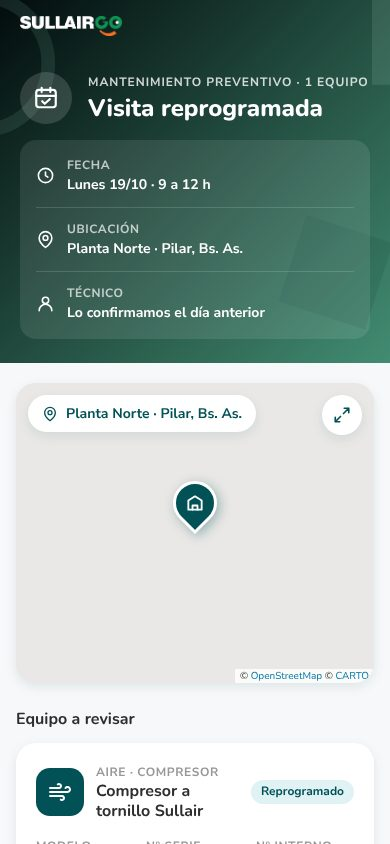
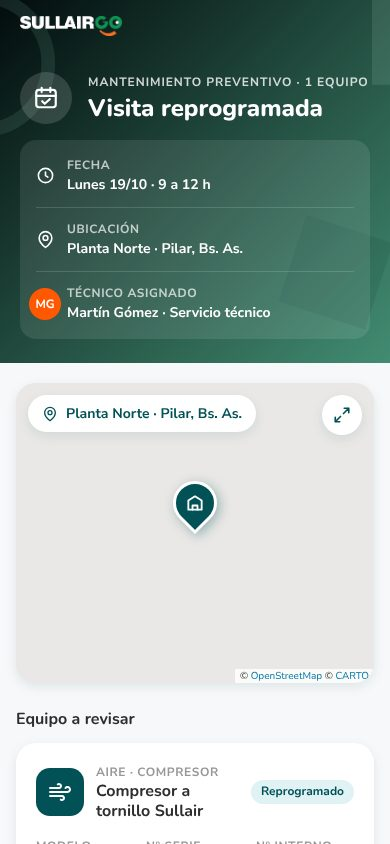
Reprogramación con varios días posibles y técnico asignado visible
- Los días pasan a ser casillas: el cliente marca uno o varios (al menos
  uno) y una o ambas franjas. Con un día se confirma en el momento; con
  varios queda "a confirmar" y la demo simula la confirmación de Sullair.
- En R1–R5 se muestra el técnico asignado (Martín Gómez) en lugar de
  "Lo confirmamos el día anterior".
- Fechas y franjas con espacios no separables para que no se corten.

Claude-Session: https://claude.ai/code/session_01QMfbviee6jNsxgx1mgfmid

Changed region(s): [[0.1846, 0.3389, 0.5538, 0.4005], [0.0615, 0.3389, 0.1846, 0.4005], [0.5846, 0.3389, 0.6769, 0.4005]]

diff --git a/public/app/app.js b/public/app/app.js
@@ -57,12 +57,13 @@
 
   // ── Fechas (escenarios de agenda) ─────────────────────────
   var MAX = 2;
-  var SLOTS = { manana: "9 a 12 h", tarde: "14 a 17 h" };
+  // Espacios no separables: las franjas y fechas no se cortan en dos renglones.
+  var SLOTS = { manana: "9\u00a0a\u00a012\u00a0h", tarde: "14\u00a0a\u00a017\u00a0h" };
   // Franjas elegidas por el cliente: una o ambas (al menos una).
   function slotsLabel(slots) {
-    return slots.length > 1 ? "9 a 17 h" : SLOTS[slots[0]];
+    return slots.length > 1 ? "9\u00a0a\u00a017\u00a0h" : SLOTS[slots[0]];
   }
-  var DATE_OPTIONS = 4;
+  var DATE_OPTIONS = 6;
   var weekday = new Intl.DateTimeFormat("es-AR", { weekday: "long" });
   var dayMonth = new Intl.DateTimeFormat("es-AR", { day: "numeric", month: "long" });
   function parse(iso) {
@@ -86,6 +87,15 @@
   }
   function day(d) {
     return weekday.format(d) + " " + pad(d.getDate()) + "/" + pad(d.getMonth() + 1);
+  }
+  var weekdayShort = new Intl.DateTimeFormat("es-AR", { weekday: "short" });
+  // "vie 16/10, lun 19/10 o mar 20/10"
+  function daysList(isoDates) {
+    var items = isoDates.map(function (iso) {
+      var d = parse(iso);
+      return weekdayShort.format(d).replace(".", "") + "\u00a0" + pad(d.getDate()) + "/" + pad(d.getMonth() + 1);
+    });
+    return items.length > 1 ? items.slice(0, -1).join(", ") + " o " + items[items.length - 1] : items[0];
   }
 
   // ── Estado de agenda (R1–R5) ──────────────────────────────
@@ -113,6 +123,7 @@
     "en-curso": ["warning", "En curso", true],
     terminado: ["success", "Terminado", true],
     programado: ["info", "Programado", false],
+    "a-confirmar": ["warning", "A confirmar", true],
     reprogramado: ["info", "Reprogramado", false],
     definitivo: ["info", "Fecha definitiva", false],
     cancelado: ["neutral", "Cancelado", false],
@@ -172,7 +183,8 @@
       "dia-siguiente": ["calendarLock", "Fecha definitiva"],
       "cancelada-sullair": ["calendarX", "Visita cancelada"],
     };
-    var t = titles[state.status];
+    var t = state.pending ? ["calendar", "Nueva fecha a confirmar"] : titles[state.status];
+    var when = state.pending ? "A confirmar: " + daysList(state.pending) : capitalize(day(date));
     return {
       icon: t[0],
       eyebrow: "Mantenimiento preventivo · 1 equipo",
@@ -182,12 +194,12 @@
         {
           icon: "clock",
           label: "Fecha",
-          value: capitalize(day(date)) + " · " + slotsLabel(state.slots),
+          value: when + " · " + slotsLabel(state.slots),
           cls: state.status === "cancelada-sullair" ? "is-cancelled" : "",
           bind: "visit-date",
         },
         { icon: "pin", label: "Ubicación", value: site },
-        { icon: "user", label: "Técnico", value: "Lo confirmamos el día anterior" },
+        { avatar: avatar, label: "Técnico asignado", value: tech },
       ],
     };
   }
@@ -261,6 +273,7 @@
   }
 
   function agendaBadge() {
+    if (state.pending) return "a-confirmar";
     return { programada: "programado", reprogramada: "reprogramado", "dia-siguiente": "definitivo", "cancelada-sullair": "cancelado" }[state.status];
   }
 
@@ -271,6 +284,10 @@
         out += '<div class="notice notice--success">' + icon("done") + "<div><strong>Todo listo</strong><span>Se cerraron las intervenciones de los " + sc.equipos.length + " equipos.</span></div></div>";
       return out;
     }
+    if (state.pending)
+      out +=
+        '<div class="notice notice--info" role="status">' + icon("clock") +
+        "<div><strong>Recibimos tu disponibilidad</strong><span>Elegimos el día y la franja entre las opciones que marcaste y te confirmamos por WhatsApp.</span></div></div>";
     if (flash) out += '<div class="notice notice--success" role="status">' + icon("done") + "<div><strong>" + esc(flash.title) + "</strong><span>" + esc(flash.text) + "</span></div></div>";
     var date = parse(state.date);
     if (state.status === "dia-siguiente")
@@ -301,6 +318,7 @@
   function footerHTML() {
     if (!agenda || state.status === "cancelada-sullair") return "";
     if (state.status === "dia-siguiente") return "<p>Esta visita ya no admite cambios. Para otra modificación, contactá a tu ejecutivo de cuenta.</p>";
+    if (state.pending) return "<p>Te confirmamos la nueva fecha en unos minutos.</p>";
     var text, action;
     if (state.used === 0) {
       text = "¿No pueden recibirnos ese día?";
@@ -543,7 +561,8 @@
     '<form data-el="form">' +
     '<div class="sheet__head"><h2 id="sheet-title" data-el="sheet-title"></h2>' +
     '<span class="quota" data-el="sheet-quota"><span class="quota__dots" aria-hidden="true"><i></i><i></i></span><span data-el="sheet-quota-text"></span></span></div>' +
-    '<fieldset class="field" data-step="choose"><legend>Nueva fecha</legend><div class="options options--dates" data-el="date-options"></div></fieldset>' +
+    '<fieldset class="field" data-step="choose" aria-describedby="dates-hint"><legend>Días posibles</legend><div class="options options--dates" data-el="date-options"></div>' +
+    '<p class="field__hint" id="dates-hint" data-el="dates-hint"></p></fieldset>' +
     '<div class="notice notice--warning" data-step="forced" hidden>' + icon("calendar") + '<span>La visita pasa al <strong data-el="forced-day"></strong>. Elegí en qué franja pueden recibirnos.</span></div>' +
     '<fieldset class="field" aria-describedby="slots-hint"><legend>Franja horaria</legend><div class="options options--slots">' +
     '<label class="option option--check"><input type="checkbox" name="slots" value="manana"><span><strong>Mañana</strong>9 a 12 h</span></label>' +
@@ -638,10 +657,10 @@
     form.querySelector('[data-step="forced"]').hidden = !forced;
     el("sheet-quota").hidden = mode !== "reprogramar";
     if (mode === "reprogramar") {
-      el("sheet-title").textContent = "Nueva fecha";
+      el("sheet-title").textContent = "¿Cuándo pueden recibirnos?";
       setQuota(el("sheet-quota"), el("sheet-quota-text"), "Reprogramación " + (state.used + 1) + " de " + MAX);
     } else if (mode === "sullair") {
-      el("sheet-title").textContent = "Elegí una nueva fecha";
+      el("sheet-title").textContent = "¿Cuándo pueden recibirnos?";
     } else {
       el("sheet-title").textContent = "Cancelar visita";
       el("forced-day").textContent = day(nextBusinessDay(date));
@@ -657,14 +676,14 @@
         d = nextBusinessDay(d);
         options.insertAdjacentHTML(
           "beforeend",
-          '<label class="option"><input type="radio" name="date" value="' + toIso(d) + '"><span><strong>' + capitalize(weekday.format(d)) + "</strong>" + dayMonth.format(d) + "</span></label>"
+          '<label class="option option--check"><input type="checkbox" name="dates" value="' + toIso(d) + '"><span><strong>' + capitalize(weekday.format(d)) + "</strong>" + dayMonth.format(d) + "</span></label>"
         );
       }
-      confirm.textContent = "Confirmar nueva fecha";
     }
     form.querySelectorAll('input[name="slots"]').forEach(function (box) {
       box.checked = state.slots.indexOf(box.value) !== -1;
     });
+    touched = false;
     validateSheet();
     openLayer(el("sheet"), trigger);
   }
@@ -674,16 +693,32 @@
       return box.value;
     });
   }
-  // Se puede confirmar con fecha (salvo que sea forzada) y al menos una franja.
-  function validateSheet() {
-    var dateOk = sheetMode === "forzada" || !!form.querySelector('input[name="date"]:checked');
-    var slotsOk = checkedSlots().length > 0;
-    var hint = el("slots-hint");
-    hint.textContent = slotsOk ? "Podés marcar una o las dos." : "Elegí al menos una franja.";
-    hint.classList.toggle("is-error", !slotsOk);
-    el("confirm").disabled = !(dateOk && slotsOk);
+  function checkedDates() {
+    return Array.prototype.map.call(form.querySelectorAll('input[name="dates"]:checked'), function (box) {
+      return box.value;
+    });
   }
-  form.addEventListener("change", validateSheet);
+  // Criterio: al menos un día (salvo que la fecha sea forzada) y al menos una franja.
+  var touched = false;
+  function validateSheet() {
+    var forced = sheetMode === "forzada";
+    var dates = checkedDates().length;
+    var datesOk = forced || dates > 0;
+    var slotsOk = checkedSlots().length > 0;
+    var datesHint = el("dates-hint");
+    datesHint.textContent = datesOk || !touched ? "Podés marcar uno o varios." : "Elegí al menos un día.";
+    datesHint.classList.toggle("is-error", !datesOk && touched);
+    var slotsHint = el("slots-hint");
+    slotsHint.textContent = slotsOk ? "Podés marcar una o las dos." : "Elegí al menos una franja.";
+    slotsHint.classList.toggle("is-error", !slotsOk);
+    var confirm = el("confirm");
+    if (!forced) confirm.textContent = dates > 1 ? "Enviar disponibilidad" : "Confirmar nueva fecha";
+    confirm.disabled = !(datesOk && slotsOk);
+  }
+  form.addEventListener("change", function () {
+    touched = true;
+    validateSheet();
+  });
   form.addEventListener("submit", function (e) {
     e.preventDefault();
     var slots = checkedSlots();
@@ -692,16 +727,17 @@
       state = { used: state.used, date: toIso(nextBusinessDay(parse(state.date))), slots: slots, status: "dia-siguiente" };
       flash = null;
     } else {
-      var picked = form.querySelector('input[name="date"]:checked');
-      if (!picked) return;
-      var label = day(parse(picked.value)) + ", de " + slotsLabel(slots) + (slots.length > 1 ? " (mañana o tarde)." : ".");
-      if (sheetMode === "sullair") {
-        state = { used: state.used, date: picked.value, slots: slots, status: "programada" };
-        flash = { title: "Nueva fecha confirmada", text: "Te esperamos el " + label + " Este cambio no cuenta como reprogramación." };
+      var dates = checkedDates();
+      if (!dates.length) return validateSheet();
+      var used = sheetMode === "sullair" ? state.used : state.used + 1;
+      state = { used: used, date: dates[0], slots: slots, status: sheetMode === "sullair" ? "programada" : "reprogramada" };
+      if (dates.length > 1) {
+        // Varios días posibles: Sullair elige uno y lo confirma (en la demo, a los pocos segundos).
+        state.pending = dates;
+        flash = null;
+        scheduleConfirmation();
       } else {
-        var used = state.used + 1;
-        state = { used: used, date: picked.value, slots: slots, status: "reprogramada" };
-        flash = { title: "Visita reprogramada", text: "Quedó para el " + label + (used >= MAX ? " Ya no quedan reprogramaciones." : " Te avisamos por WhatsApp.") };
+        flash = confirmationFlash(sheetMode === "sullair" ? "Nueva fecha confirmada" : "Visita reprogramada");
       }
     }
     saveState();
@@ -713,6 +749,31 @@
     });
     window.scrollTo({ top: 0, behavior: "smooth" });
   });
+
+  function confirmationFlash(title) {
+    var label = day(parse(state.date)) + ", de " + slotsLabel(state.slots) + (state.slots.length > 1 ? " (mañana o tarde)." : ".");
+    var tail =
+      state.status === "programada" ? " Este cambio no cuenta como reprogramación." : state.used >= MAX ? " Ya no quedan reprogramaciones." : " Te avisamos por WhatsApp.";
+    return { title: title, text: (state.status === "programada" ? "Te esperamos el " : "Quedó para el ") + label + tail };
+  }
+
+  // Simula la respuesta de Sullair: toma el primer día y la primera franja marcados.
+  var confirmationTimer = null;
+  function scheduleConfirmation() {
+    clearTimeout(confirmationTimer);
+    confirmationTimer = setTimeout(function () {
+      if (!state.pending) return;
+      state.date = state.pending[0];
+      state.slots = [state.slots[0]];
+      delete state.pending;
+      flash = confirmationFlash("Sullair confirmó tu visita");
+      saveState();
+      paint();
+      root.querySelectorAll('[data-bind="visit-date"]').forEach(function (node) {
+        node.classList.add("is-updated");
+      });
+    }, 4000);
+  }
 
   // ── Control de la demo (botón flotante) ───────────────────
   var demo = document.createElement("div");
@@ -781,6 +842,7 @@
         closeLayers();
         break;
       case "reset":
+        clearTimeout(confirmationTimer);
         state = Object.assign({}, sc.state);
         flash = null;
         saveState();
@@ -850,6 +912,7 @@
 
   document.title = sc.id + " · " + sc.title + " · SullairGo";
   paint();
+  if (agenda && state.pending) scheduleConfirmation();
   initMap();
 
   if (sc.updated) {

diff --git a/README.md b/README.md
@@ -27,7 +27,8 @@ Desde R1 se llega a R4 reprogramando dos veces y cancelando. "Reiniciar escenari
 
 ### Regla de reprogramación (en prueba)
 
-- El cliente puede **reprogramar hasta 2 veces**, eligiendo fecha (próximos 4 días hábiles) y franja: **mañana, tarde o ambas**, con al menos una marcada. Con las dos, la visita queda de 9 a 17 h.
+- El cliente puede **reprogramar hasta 2 veces** marcando su disponibilidad: **uno o varios días** (próximos 6 días hábiles) y **mañana, tarde o ambas** franjas. El criterio es al menos un día y al menos una franja.
+- Con un solo día, la nueva fecha queda confirmada en el momento. Con varios, queda "a confirmar" y Sullair elige día y franja; en la demo, la confirmación llega sola a los 4 segundos (toma el primer día y la primera franja marcados).
 - **Antes de cada reprogramación aparece un modal** que avisa que reprogramar tiene un costo (reorganiza la agenda de los técnicos y demora a otros clientes) y que no es ilimitado. La acción principal del modal es *Mantener la fecha*.
 - Con las 2 reprogramaciones usadas, el link pasa a *Cancelar visita*: si cancela, la visita **pasa al día hábil siguiente** y ya no admite cambios.
 - Si **cancela Sullair**, el cliente elige la nueva fecha y **no se le descuenta** ninguna reprogramación. Es el único caso donde la acción es un botón principal.
